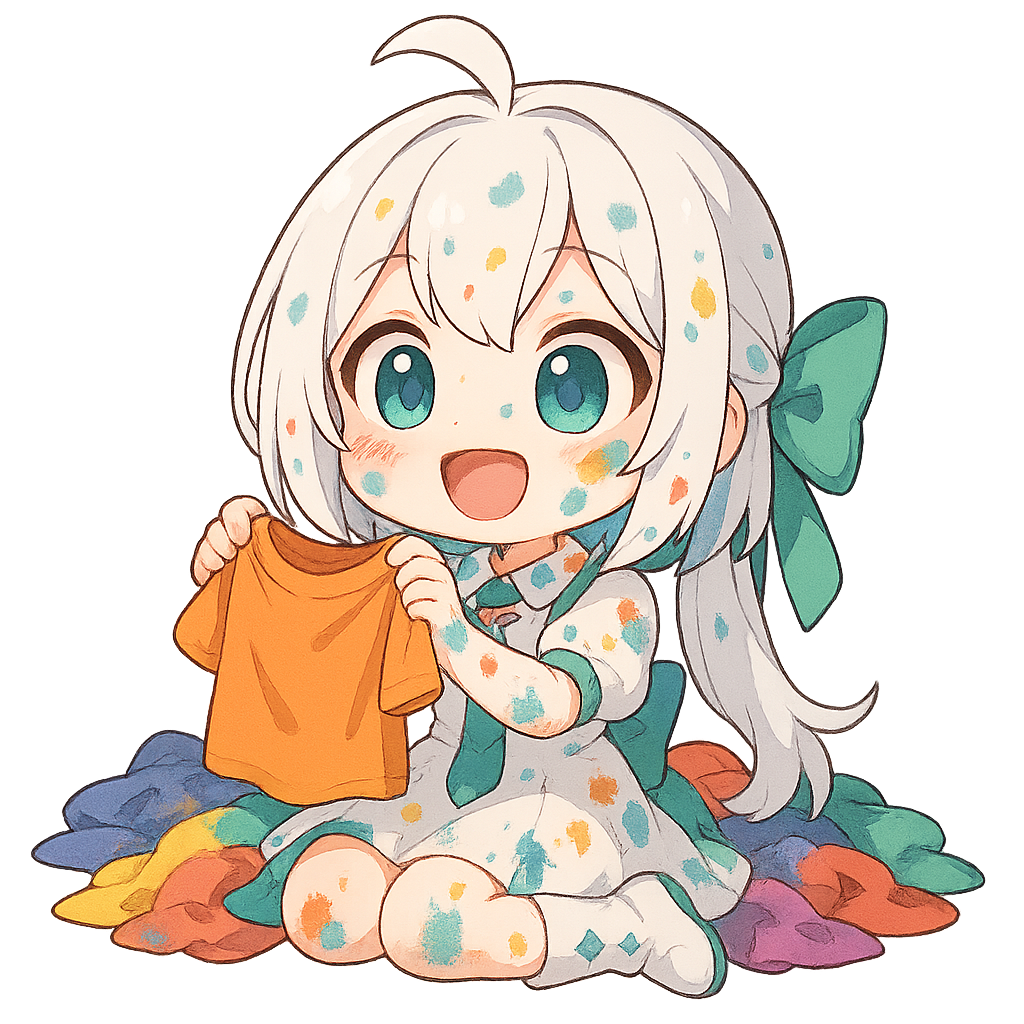
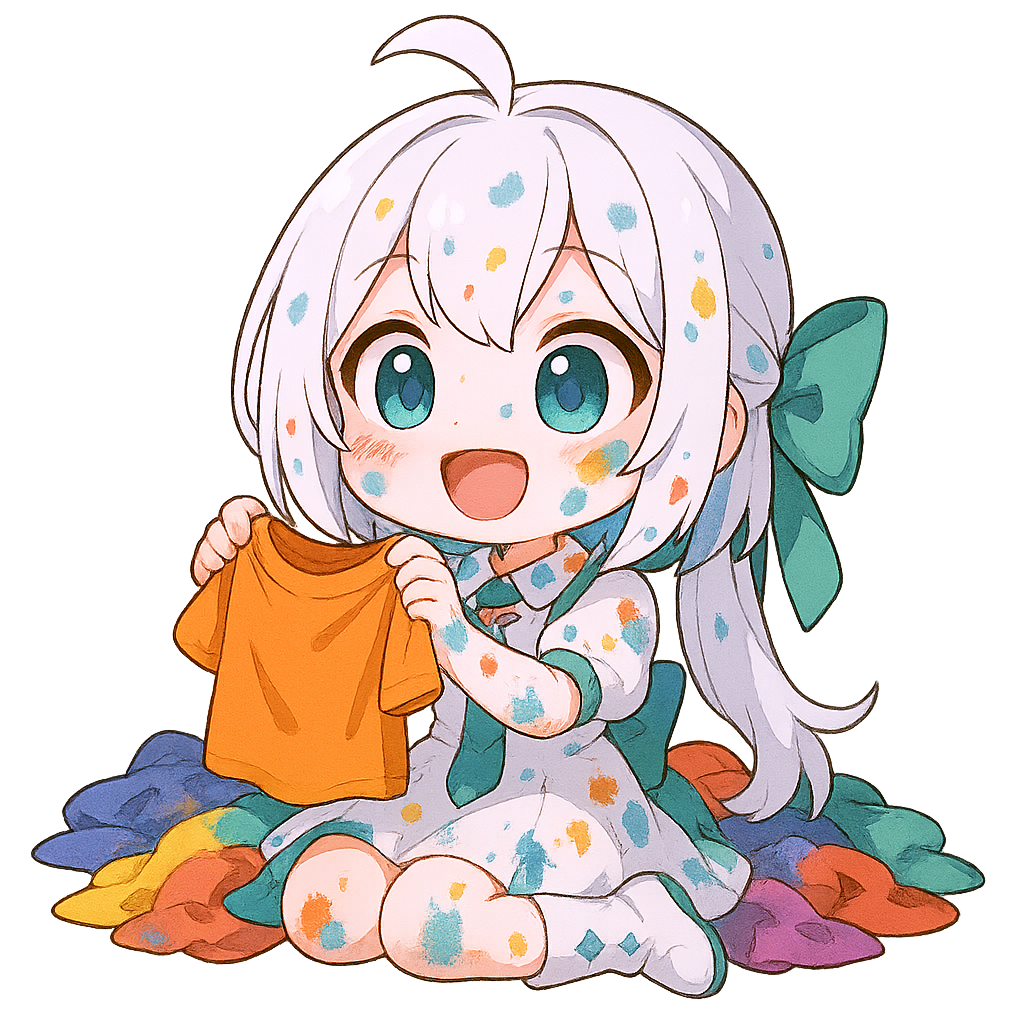
打包1

diff --git a/build.py b/build.py
@@ -1,0 +1,40 @@
+import PyInstaller.__main__
+import os
+import importlib.util
+import keyboard
+
+# 获取当前目录
+current_dir = os.path.dirname(os.path.abspath(__file__))
+
+# 获取 keyboard 模块的位置
+keyboard_path = os.path.dirname(keyboard.__file__)
+winkeyboard_path = os.path.join(keyboard_path, '_winkeyboard.cp312-win_amd64.pyd')
+
+# 定义资源文件
+resources = [
+    os.path.join(current_dir, 'config'),  # config 文件夹
+    os.path.join(current_dir, 'rsc'),     # rsc 文件夹
+]
+
+# 打包参数
+params = [
+    os.path.join(current_dir, 'rsc', 'color_matcher_mini.py'),  # 主程序
+    '--name=开发空间染色助手_v1.0',           # 生成的exe名称
+    '--noconsole',              # 不显示控制台
+    '--icon=' + os.path.join(current_dir, 'rsc', 'icon.png'),  # 程序图标
+    '--hidden-import=keyboard',  # keyboard模块
+    '--hidden-import=win32api',  # win32api模块
+    '--manifest=' + os.path.join(current_dir, 'app.manifest'),   # 管理员权限manifest
+    '--noconfirm',              # 覆盖已存在的输出目录
+    '--clean',                  # 清理临时文件
+]
+
+# 添加资源文件
+for res in resources:
+    if os.path.isdir(res):
+        params.append(f'--add-data={res};{os.path.basename(res)}')
+
+# 运行打包
+PyInstaller.__main__.run(params)
+
+print("打包完成!")

diff --git a/rsc/color_matcher_mini.py b/rsc/color_matcher_mini.py
@@ -1423,13 +1423,6 @@ def is_admin():
         return False
     
 if __name__ == "__main__":
-    if not is_admin():
-        # 重新以管理员权限启动
-        import ctypes
-        ctypes.windll.shell32.ShellExecuteW(
-            None, "runas", sys.executable, ' '.join(['"' + arg + '"' for arg in sys.argv]), None, 1)
-        sys.exit(0)
-    
     # 创建命名互斥锁
     import win32event
     import win32api
